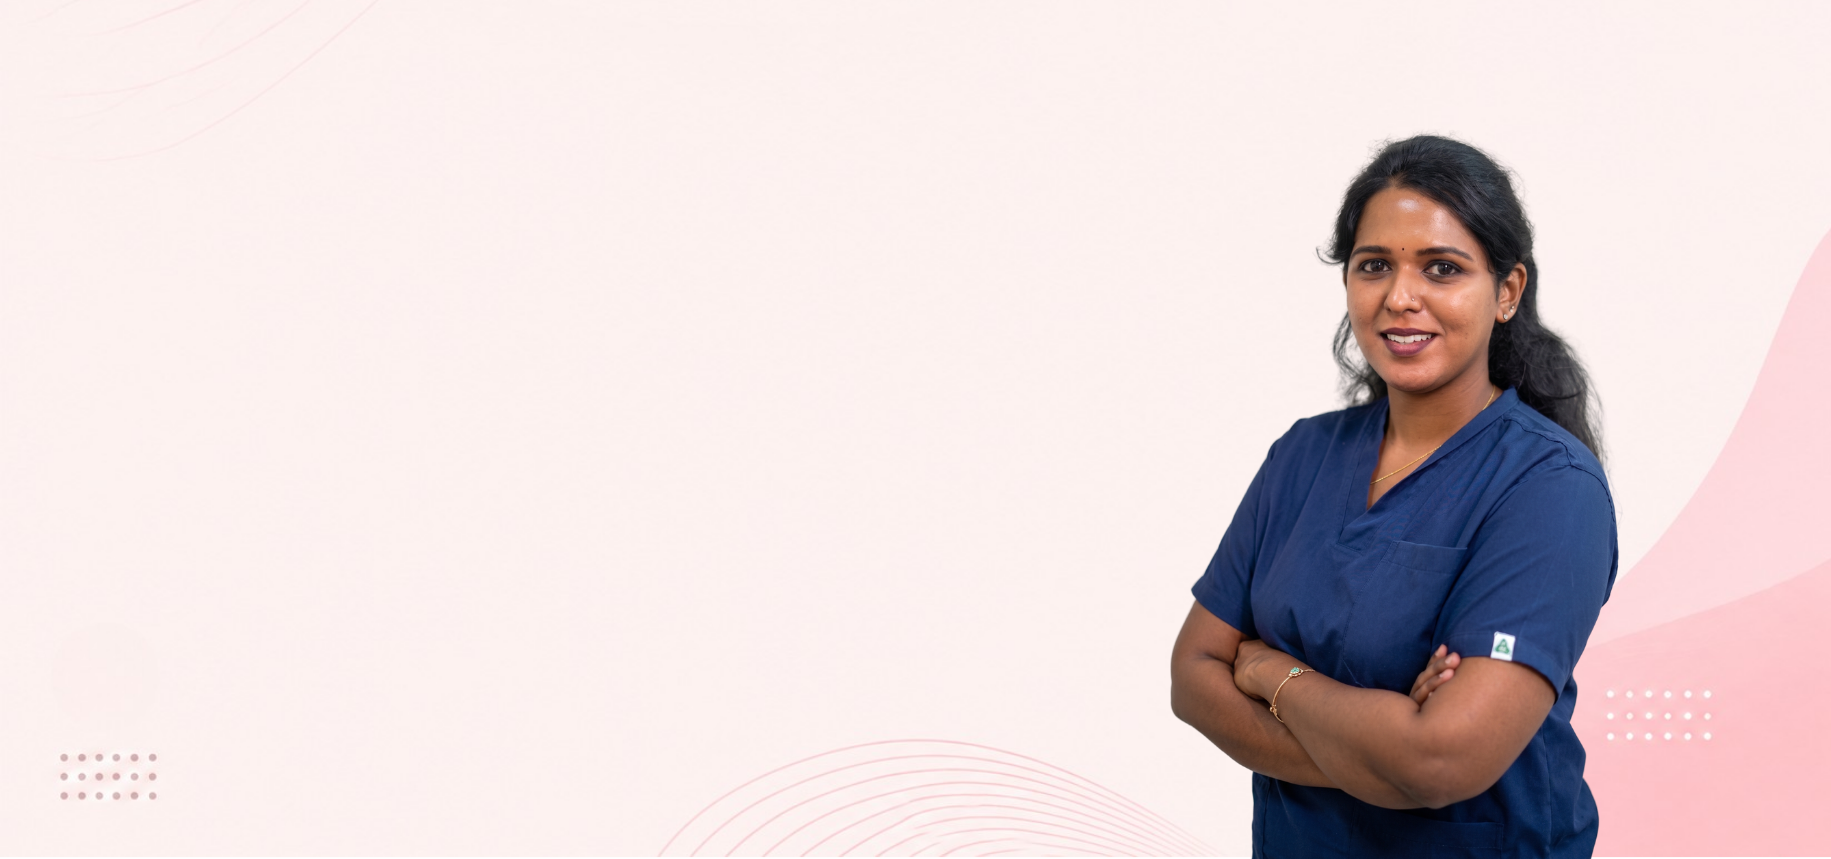
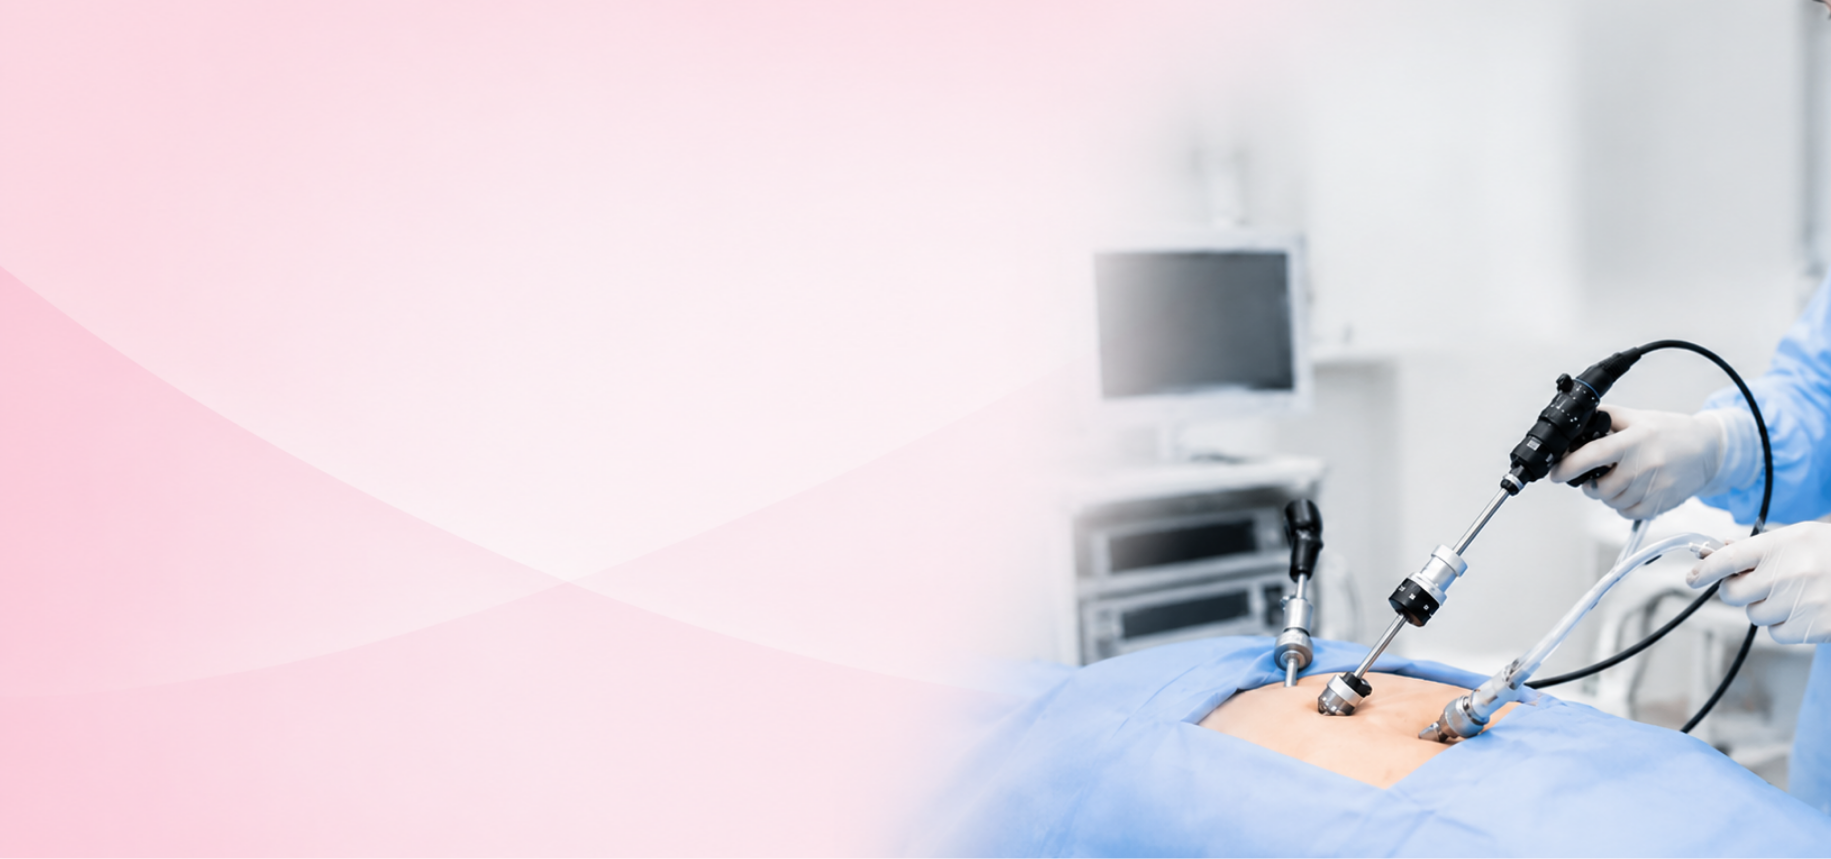
update

diff --git a/resources/views/home.blade.php b/resources/views/home.blade.php
@@ -1,10 +1,9 @@
 
 
-@php($title = 'Dr. Aparna Venugopal | Expert General & Laparoscopic Surgeon')
+@php($title = 'Dr. Aparna Venugopal | General & Laparoscopic Surgeon in Pune')
 
 @section('meta_desc')
-Experience advanced minimally invasive surgical treatments, hernia repair, and specialized day care surgeries by
-Dr. Aparna Venugopal, a trusted general surgeon.
+Consult Dr. Aparna Venugopal, a leading general & laparoscopic surgeon in Pune. Expertise in advanced minimally invasive surgeries, hernia, gallbladder & piles.
 @endsection
 @extends('layouts.default')
 @section('content')
@@ -81,7 +80,7 @@ Dr. Aparna Venugopal, a trusted general surgeon.
                 <div class="about-img-wrapper position-relative  about-img-custom">
                     <!-- <div class="about-bg-shape"></div> -->
                     <div class="about-border-shape"></div>
-                    <img src="{{ asset('resources/assets/images/doctor/dr-aparna-venugopal.png') }}" alt="Dr. Aparna Venugopal" class="img-fluid position-relative z-1 shadow-sm about-img-custom about-img-accent">
+                    <img src="{{ asset('resources/assets/images/doctor/dr-aparna-venugopal-.jpg') }}" alt="Dr. Aparna Venugopal" class="img-fluid position-relative z-1 shadow-sm about-img-custom about-img-accent">
                 </div>
             </div>
             <div class="col-lg-7  order-lg-1" data-aos="fade-right" data-aos-delay="100">
@@ -638,7 +637,7 @@ Book a consultation with <a href="{{route('about')}}" class="text-primary-bold">
                 <div class="position-relative">
                     <!-- Offset border design matching image -->
                     <div class="position-absolute rounded-3 w-100 h-100 cta-img-offset-border"></div>
-                    <img src="{{ asset('resources/assets/images/doctor/dr-aparna-venugopal-img.png') }}" alt="Dr. Aparna Venugopal" class="img-fluid rounded-3 position-relative z-1 w-100 cta-doctor-img">
+                    <img src="{{ asset('resources/assets/images/slider/cta.png') }}" alt="Dr. Aparna Venugopal" class="img-fluid rounded-3 position-relative z-1 w-100 cta-doctor-img">
                 </div>
             </div>
 

diff --git a/resources/views/about.blade.php b/resources/views/about.blade.php
@@ -1,8 +1,7 @@
-@php($title = 'About Dr. Aparna Venugopal | General & Laparoscopic Surgeon')
+@php($title = 'About Dr. Aparna Venugopal | General & Laparoscopic Surgeon in Pune')
 
 @section('meta_desc')
-About Dr. Aparna Venugopal, General and Laparoscopic Surgeon with expertise in minimally invasive surgery, emergency
-care and surgical patient management.
+Meet Dr. Aparna Venugopal, General & Laparoscopic Surgeon in Pune. Learn about her qualifications, experience, and expertise in minimally invasive surgery.
 @endsection
 
 @extends('layouts.default')

diff --git a/resources/views/layouts/default.blade.php b/resources/views/layouts/default.blade.php
@@ -6,6 +6,7 @@
     <meta name="description" content="@yield('meta_desc', 'Consult Dr. Aparna Venugopal for expert general surgery, advanced laparoscopic treatments, hernia repair, and specialized surgical care.')">
 
     @include('includes.head')
+    <link rel="canonical" href="{{ url()->current() }}" />
     
 </head>
 